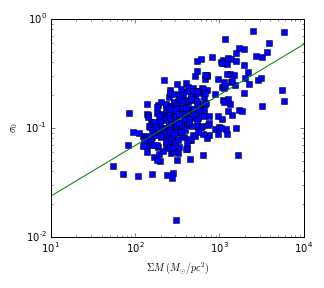
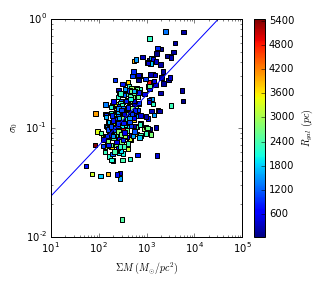
new catalog

diff --git a/m83plots2.py b/m83plots2.py
@@ -23,12 +23,16 @@ sigma=(mytable['VRMS_EXTRAP_DECONV'][idx])/np.sqrt((mytable['RADRMS_EXTRAP_DECON
 dens=(mytable['MASS_EXTRAP'][idx])/(np.pi*((mytable['RADRMS_EXTRAP_DECONV'][idx])**2)) #mass density
 
 m,b=np.polyfit(np.log(dens),np.log(sigma),1)
-x=np.linspace(10,10e3,100)
+x=np.linspace(10,10e4,100)
 figure=plt.figure(figsize=(4.5,4))
-plt.loglog(dens, sigma, marker='s', linestyle='None')
-plt.loglog(x, np.exp(m*np.log(x)+b))
+plt.scatter(dens, sigma,c=rgal, marker='s')
+plt.plot(x, np.exp(m*np.log(x)+b))
 plt.xlabel(r'${\Sigma}M\ (M_{\odot}/pc^2)$')
 plt.ylabel(r'${\sigma}_0\ $')
+plt.axis([10, 10e4,10e-3, 1 ])
+plt.xscale('log')
+plt.yscale('log')
+plt.colorbar(label='$R_{gal}\ (pc)$')
 plt.tight_layout()
 plt.savefig('massdensity_matplotlib.png')
 
